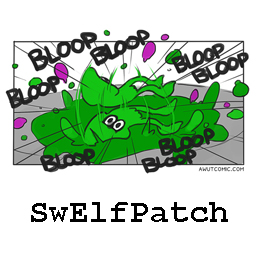
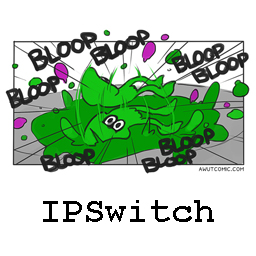
Update info for IPSwitch

Changed region(s): [[0.125, 0.7812, 0.9062, 0.875]]

diff --git a/example/README.md b/example/README.md
@@ -1,14 +1,27 @@
 # How to use
-Place your elf file in `sdmc:/switch/swelfpatch/{titleid-title_description}/main.elf`. (For now the code only reads main.elf) "title_description" is optional as it is only used for display and easier to identify. The patches will be represented is a text file of swelfpatch format, `main.swelfpatch`. Run the homebrew and it will let you select and title and generate its patched nso to `sdmc:/atmosphere/titles/{titleid}/exefs/main`.
 
-## Structure of `.swelfpatch` file
-`.swelfpatch` will be a text file. See the main.swelfpatch for some simple Splatoon 2 3.0.1 edit I provided for example.
+This program reads `.pchtxt` (patch text) files and can create `.ips` patches or create a patched `.nso` from a `.elf`. `.pchtxt` is a in-house text file format to represent patches. You can find the specs for `.pchtxt` below.
+
+The program looks for `.pchtxt` files from directory `sdmc:/switch/ipswitch/{titleid-title_description}/`. "title_description" is optional but it is used for display and help user to identify the title. 
+
+For generating ips patch, name your patch text as `sdmc:/switch/ipswitch/{titleid-title_description}/ips.pchtxt`. NSO build id is required in the file (see "Structure of `.pchtxt` File" section.)
+
+For generating patched nso from elf, place your elf file in `sdmc:/switch/ipswitch/{titleid-title_description}/{nso_name}.elf`. {nso_name} mush match the file name of the nso inside exefs. The `.pchtxt` should be `sdmc:/switch/ipswitch/{titleid-title_description}/{nso_name}.pchtxt`. 
+
+Run the homebrew and it will let you select a `.pchtxt` and generate either a `.ips` patch to `sdmc:/atmosphere/exefs_patches/{titleid}/{nsoid}.ips` or a patched nso to `sdmc:/atmosphere/titles/{titleid}/exefs/{nso_name}`.
+
+---
+## Structure of `.pchtxt` File
+`.pchtxt` will be a text file. See the main.pchtxt for some simple Splatoon 2 3.0.1 edit I provided for example.
 
 ---
 The first line is mandatory to specify the value's Endianess with character `@`. It should either be `@little-endian` or `@big-endian`.
 
 ---
-The second line can be used to provide optional info about these patches preceded by a `#` symbol. The first 16 characters is the title id, and followed by whatever description necessary.
+The second line is mandatory to specify the nso's build id with `@nsobid-{a_buncha_hex}`. If this is missing, the program will attempt to treat the file as an elf to nso patch.
+
+---
+The third line can be used to provide optional info about these patches preceded by a `#` symbol. The first 16 characters is the title id, and followed by whatever description necessary.
 
 ```#01003BC0000A0000 Splatoon™ 2 3.0.1 USA```
 
@@ -18,13 +31,23 @@ Comments are marked with '/' character:
 ```// This is a comment.```
 
 ---
-For every patch, it is necessary to specify whether it is in use by putting `@enabled` or `@disabled` on top of it. The program will also print the last line of comment that it sees to explain the patch.
+For every patch, it is necessary to specify whether it is enabled or disabled by putting `@enabled` or `@disabled` on top of it. When encountering this flag, the program will print the last line of pure comment that it sees to explain the patch, so it's also necessary to comment each patch.
 
-The actual edits are represented in a line of offset and value pair, each are a word (consecutive 4 bytes). Offset will always be in Big-Endian. The value will be in like specified in the beginning, either Big-Endian or Little-Endian.
+`@stop` can be used in the end of valid patches, telling the program to stop reading any patches that might come after this specifier, useful for leaving in deprecated patches for records.
+
+The actual edits are represented in a line of offset and value pair, each are 4 bytes. Offset will always be in Big-Endian, and it's the absolute offset from either uncompressed nso file or elf file. The value will be either Big-Endian or Little-Endian like specified in the first line.
+
+This is what a patch should look like:
 
 ```
+// Some comment to explain the patch
+@enabled
 00123456 1F2003D5
 ^        ^
 |        |
 Offset   Value
 ```
+
+---
+### Editing the text file
+Please don't use Windows Notepad. 99% chance you'll end up with some bad encoding that will cause this to not work. Use a real text editor like Sublime or Notepad++. Heck, use a hex editor, if you will, to make sure no extra bytes are there to break things.

diff --git a/README.md b/README.md
@@ -1,9 +1,7 @@
-# SwElfPatch
-Apply patches to `elf` and convert to `nso` to use with Atmosphere.
+# IPSwitch
+Use text files to generate `.ips` patches or patched `nso` to use with Atmosphere.
 
-Pretty sure Atmosphere may have some better patching implementation down the line tho.
-
-To use this, you need to have extracted a game's exefs and convert its content you want to edit to an `elf`. 
+To use `.ips` patches make sure you have Atmosphere 44e2412a (July 30, 2018) or later loader build.
 ---
 See example for details.
 
@@ -15,6 +13,7 @@ See example for details.
 ## Build
 - DevkitA64
 - libnx
+- [lz4](https://github.com/lz4/lz4) compiled with DevkitA64
 
 `make`
 
@@ -30,4 +29,3 @@ See example
 - Improve selection interface
 - Support other than 'main.elf'
 - Toggle an edit enable or disable
-- Progress bar
